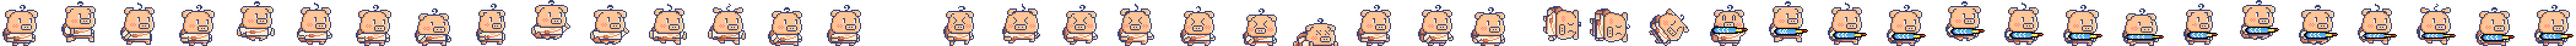
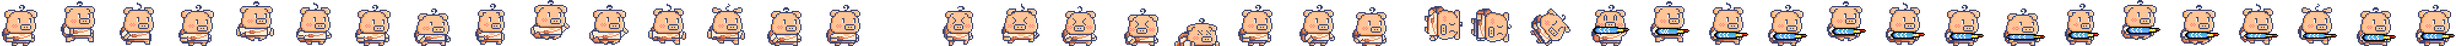
can be played

diff --git a/main.cpp b/main.cpp
@@ -16,7 +16,7 @@ int main(int argc, char* argv[])
     Uint32 frameStart;
     int frameTime;
     srand(time(0));
-    int time=0, level=0;
+    int time=0, level=0, speedUp=0, types=BASE_TYPES;
 
     Graphics graphics;
     graphics.initSDL();
@@ -31,6 +31,8 @@ int main(int argc, char* argv[])
     Obstacle bird(birdTexture, BIRD);
     SDL_Texture* crabTexture=graphics.loadTexture(CRAB_FILE);
     Obstacle crab(crabTexture, CRAB);
+    SDL_Texture* castleTexture=graphics.loadTexture(CASTLES_FILE);
+    Obstacle castle(castleTexture, CASTLE);
 
     bool quit=false;
     SDL_Event event;
@@ -45,39 +47,56 @@ int main(int argc, char* argv[])
 
         const Uint8* currentKeyStates = SDL_GetKeyboardState(NULL);
 
-        if (currentKeyStates[SDL_SCANCODE_SPACE] && berie.running()){
+        if (currentKeyStates[SDL_SCANCODE_SPACE] && berie.running() && !berie.damaged()){
             berie.status=JUMP;
         }
-        berie.Move();
         SDL_Rect* currentClip_Character = nullptr;
-        graphics.renderBackground(background, LEVEL[level]);
-
+        graphics.renderBackground(background, speedUp);
+        if(!berie.damaged()) berie.Move();
         if (berie.running()){
             berie.run.tick();
             currentClip_Character=berie.run.getCurrentClip();
             graphics.renderSprite(berie.posX, berie.posY, berie.run);
         }
         else if (berie.jumping()){
-            berie.jump.tick();
-            currentClip_Character=berie.jump.getCurrentClip();
-            graphics.renderSprite(berie.posX, berie.posY, berie.jump);
+        berie.jump.tick();
+        currentClip_Character=berie.jump.getCurrentClip();
+        graphics.renderSprite(berie.posX, berie.posY, berie.jump);
         }
         else if (berie.falling()){
             berie.fall.tick();
             currentClip_Character=berie.fall.getCurrentClip();
             graphics.renderSprite(berie.posX, berie.posY, berie.fall);
         }
-        bird.Move(LEVEL[level]);
-        bird.foe.tick();
-        graphics.renderSprite(bird.posX, bird.posY, bird.foe);
-        crab.Move(LEVEL[level]);
-        crab.foe.tick();
-        graphics.renderSprite(crab.posX, crab.posY, crab.foe);
+        if (level>=0){
+            castle.Move(speedUp, types);
+            graphics.renderSprite(castle.posX, castle.posY, castle.foe);
+            bird.Move(speedUp, types);
+            bird.foe.tick();
+            graphics.renderSprite(bird.posX, bird.posY, bird.foe);
+        }
+        if (level>=2){
+            crab.Move(speedUp,types);
+            crab.foe.tick();
+            graphics.renderSprite(crab.posX, crab.posY, crab.foe);
+        }
         if (checkEnemyCollision(berie, currentClip_Character, bird, bird.foe.getCurrentClip())){
-            quit=true;
+            berie.status=DEAD;
         }
         if (checkEnemyCollision(berie, currentClip_Character, crab, crab.foe.getCurrentClip())){
-            quit=true;
+                berie.status=DEAD;
+            }
+            if (checkEnemyCollision(berie, currentClip_Character, castle, castle.foe.getCurrentClip())){
+                berie.status=DEAD;
+            }
+        if (berie.damaged()){
+            berie.playDead();
+            berie.dead.tick();
+            graphics.renderSprite(berie.posX, berie.posY, berie.dead);
+            if (berie.dead.currentFrame==DEAD_FRAMES*FRAME_RATE-1) {
+                SDL_Delay(1000);
+                quit=true;
+            }
         }
         graphics.present();
         frameTime=SDL_GetTicks()-frameStart;
@@ -86,6 +105,10 @@ int main(int argc, char* argv[])
         if (time>TIME_UP){
             time=0;
             if (level<MAX_LEVEL) level++;
+            if (types<MAX_TYPE) types++;
+        }
+        if (time%(TIME_UP/ACCEL_PACE)==0 && time!=0){
+            speedUp++;
         }
     }
     destroyBackground(background);

diff --git a/defs.h b/defs.h
@@ -12,8 +12,8 @@ const int SCREEN_HEIGHT = 540;
 
 #define BERIE_FILE "assets//image//berie.png"
 
-#define CASTLES_FILE "assets//image//castle.png"
-#define BIRD_FILE "assets//image//pigeon.png"
+#define CASTLES_FILE "assets//image//castles.png"
+#define BIRD_FILE "assets//image//bird.png"
 #define CRAB_FILE "assets//image//crab.png"
 
 #define SPPED_INCREASEMENT 2
@@ -26,35 +26,43 @@ const int LAYER_1_SPEED=0;
 const int LAYER_2_SPEED=1;
 const int LAYER_3_SPEED=2;
 const int LAYER_4_SPEED=3;
-const int TIME_UP=1000;
+const int TIME_UP=800;
 const int MAX_LEVEL=5;
-const int LEVEL[]={0,2,4,7,11,15};
+const int ACCEL_PACE=2;
+const int SPEED_ACCEL=1;
 
 const int GROUND=415;
 const int MAX_HEIGHT=175;
 const int BASE=80;
 const int JUMP_SPEED=8;
 const int FALL_SPEED=8;
-const int MIN_HEIGHT=250;
+const int DEAD_SPEED=2;
+const int MIN_HEIGHT=200;
+const int CHAR_HEIGHT=76;
+const int CHAR_WIDTH=65;
 const int BIRD_POS_RANGE=250;
-const int CASTLE_POS_RANGE=250;
-const int CRAB_POS_RANGE=100;
+const int CASTLE_POS_RANGE=0;
+const int CRAB_POS_RANGE=250;
+const int BASE_TYPES=2;
+const int MAX_TYPE=5;
 
 const int FPS=50;
 const int FRAME_DELAY=1000/FPS;
 const int FRAME_RATE=5;
 const int FRAME_LOST=2;
-const int RUN_CLIPS[][4]={{95,0,65,76},{190, 0, 65, 76},{285,0,65,76},{384,0,65,76},{480,0,65,76},{577,0,65,76}};
-const int JUMP_CLIPS[][4]={{673,0,65,76},{767,0,65,76},{865,0,65,76},{865,0,65,76},{865,0,65,76},{961,0,65,76}};
-const int FALL_CLIPS[][4]={{1055,0,65,76},{1152,0,65,76},{1055,0,65,76},{1152,0,65,76},{1242,0,65,76},{1343,0,65,76}};
+const int RUN_CLIPS[][4]={{95,0,65,76},{190, 0, 65, 76},{285,0,65,76},{383,0,65,76},{480,0,65,76},{575,0,65,76}};
+const int JUMP_CLIPS[][4]={{672,0,65,76},{767,0,65,76},{864,0,65,76},{864,0,65,76},{864,0,65,76},{960,0,65,76}};
+const int FALL_CLIPS[][4]={{1054,0,65,76},{1054,0,65,76},{1151,0,65,76},{1151,0,65,76},{1241,0,65,76},{1342,0,65,76}};
+const int DEAD_CLIPS[][4]={{1440,0,65,76},{1530,0,65,76},{1631,0,65,76},{1727,0,65,76},{1828,0,65,76},{1913,0,80,76}};
 
-const int BIRD_CLIPS[][4]={{0,0,32,32},{32,0,32,32},{96,0,32,32},{160,0,32,32},{192,0,32,32}};
-const int CASTLE_TYPES[][4]={{1,75,68,75},{74,43,120,107},{198,0,68,150},{273,43,169,107},{447,0,120,150}};
+const int BIRD_CLIPS[][4]={{197,0,61,49},{130,0,62,49},{67,0,60,49},{3,0,62,49}};
+const int CASTLE_TYPES[][4]={{1,75,70,75},{74,43,120,107},{198,0,70,150},{273,43,169,107},{447,0,120,150}};
 const int CRAB_CLIPS[][4]={{13,109,37,19},{137,109,42,19},{203,109,39,19}};
 
 const int RUN_FRAMES=sizeof(RUN_CLIPS)/sizeof(int)/4;
 const int JUMP_FRAMES=sizeof(JUMP_CLIPS)/sizeof(int)/4;
 const int FALL_FRAMES=sizeof(FALL_CLIPS)/sizeof(int)/4;
+const int DEAD_FRAMES=sizeof(DEAD_CLIPS)/sizeof(int)/4;
 
 const int BIRD_FRAMES=sizeof(BIRD_CLIPS)/sizeof(int)/4;
 const int CRAB_FRAMES=sizeof(CRAB_CLIPS)/sizeof(int)/4;

diff --git a/logic.cpp b/logic.cpp
@@ -7,10 +7,12 @@ Character::Character(SDL_Texture* texture)
     run.init(texture, RUN_FRAMES, RUN_CLIPS);
     jump.init(texture, JUMP_FRAMES, JUMP_CLIPS);
     fall.init(texture, FALL_FRAMES, FALL_CLIPS);
+    dead.init(texture, DEAD_FRAMES, DEAD_CLIPS);
 }
 bool Character::running()
 {
-    return posY==GROUND;
+    if(status==RUN) return true;
+    return false;
 }
 bool Character::jumping()
 {
@@ -20,6 +22,11 @@ bool Character::jumping()
 bool Character::falling()
 {
     if (status==FALL) return true;
+    return false;
+}
+bool Character::damaged()
+{
+    if (status==DEAD) return true;
     return false;
 }
 void Character::Move()
@@ -36,24 +43,36 @@ void Character::Move()
 	{
 		posY += FALL_SPEED;
 	}
+	if (posY==GROUND) status=RUN;
+}
+void Character::playDead()
+{
+    if (posY<GROUND){
+        posY+=FALL_SPEED;
+    }
+    if (posY>GROUND){
+        posY=GROUND;
+    }
+    posX+=DEAD_SPEED;
 }
 
 Obstacle::Obstacle(SDL_Texture* texture, int _type)
 {
-    posX=0; posY=0;
+    posX=-200; posY=-200;
     type=_type;
     if (type==BIRD){
         foe.init(texture, BIRD_FRAMES, BIRD_CLIPS);
-        posX=rand()%(SCREEN_WIDTH+BIRD_POS_RANGE+1)+SCREEN_WIDTH;
         posY=rand()%(MAX_HEIGHT-MIN_HEIGHT+1)+MAX_HEIGHT;
     }
     else if (type==CRAB){
         foe.init(texture, CRAB_FRAMES, CRAB_CLIPS);
-        posX=rand()%(SCREEN_WIDTH+CRAB_POS_RANGE)+SCREEN_WIDTH;
-        posY=GROUND+57;
+        posY=GROUND+(CHAR_HEIGHT-foe.getCurrentClip()->h);
+    }
+    else if (type==CASTLE){
+        foe.init(texture, CASTLES, CASTLE_TYPES);
     }
 }
-void Obstacle::Move(int accel)
+void Obstacle::Move(int accel, int types)
 {
     posX-=(GROUND_SPEED+accel);
     if (posX+foe.getCurrentClip()->w <0){
@@ -63,6 +82,11 @@ void Obstacle::Move(int accel)
         }
         else if (type==CRAB){
             posX=rand()%(SCREEN_WIDTH+CRAB_POS_RANGE)+SCREEN_WIDTH;
+        }
+        else if (type==CASTLE){
+            posX=rand()%(SCREEN_WIDTH+CASTLE_POS_RANGE)+SCREEN_WIDTH;
+            foe.currentFrame=(rand()%types)*FRAME_RATE;
+            posY=GROUND+(CHAR_HEIGHT-foe.getCurrentClip()->h)+5;
         }
     }
 }
@@ -77,7 +101,7 @@ bool checkCollision(int leftA, int rightA, int topA, int botA, int leftB, int ri
 
 bool checkEnemyCollision(Character character, SDL_Rect* char_clip, Obstacle enemy, SDL_Rect* enemy_clip)
 {
-    int leftA=character.posX, rightA=character.posX+char_clip->w, topA=character.posY, botA=character.posY+char_clip->h;
+    int leftA=character.posX, rightA=character.posX+CHAR_WIDTH, topA=character.posY, botA=character.posY+CHAR_HEIGHT;
     int leftB=enemy.posX, rightB=enemy.posX+enemy_clip->w, topB=enemy.posY, botB=enemy.posY+enemy_clip->h;
     return checkCollision(leftA, rightA, topA, botA, leftB, rightB, topB, botB);
 }

diff --git a/logic.h b/logic.h
@@ -25,12 +25,14 @@ struct Character
     Sprite getGun;
     Sprite runWithGun;
     Sprite jumpWithGun, fallWithGun;
-    Sprite damaged;
+    Sprite dead;
     Character(SDL_Texture* texture);
     bool running();
     bool jumping();
     bool falling();
+    bool damaged();
     void Move();
+    void playDead();
 };
 
 struct Obstacle
@@ -39,7 +41,7 @@ struct Obstacle
     int type;
     Sprite foe;
     Obstacle(SDL_Texture* texture, int _type);
-    void Move(int accel);
+    void Move(int accel, int types);
 };
 
 bool checkCollision(int leftA, int rightA, int topA, int botA, int leftB, int rightB, int topB, int botB);
